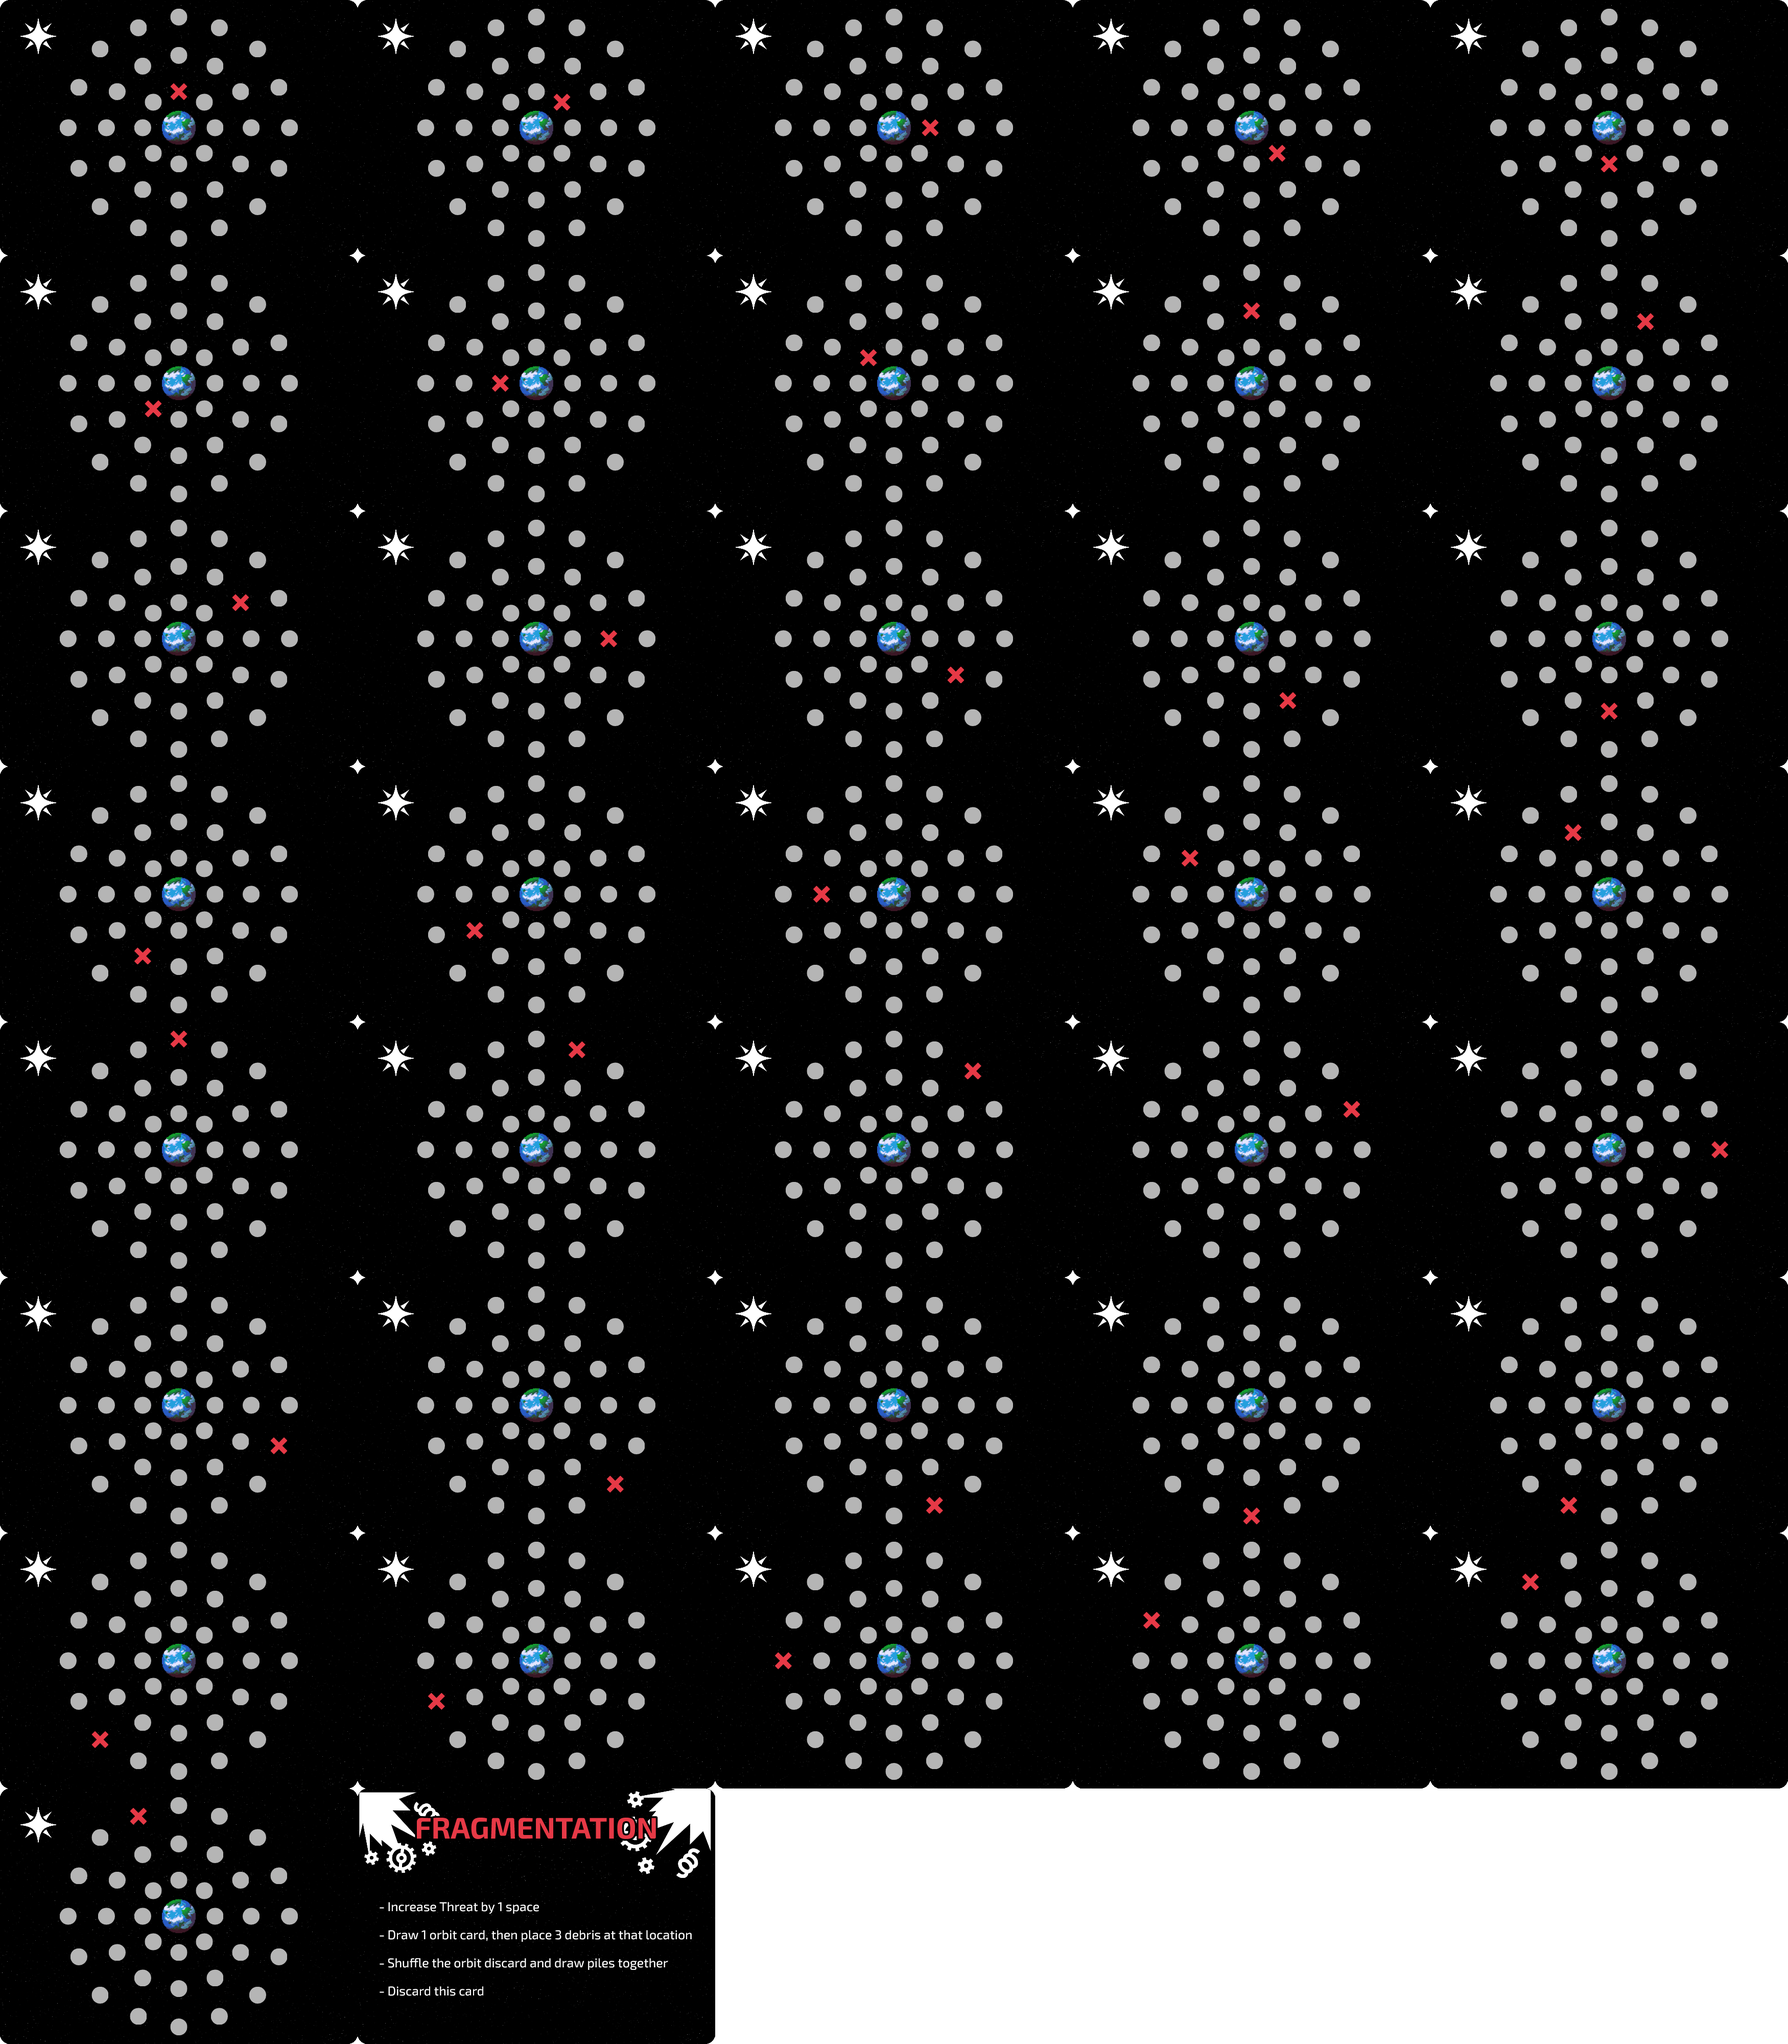
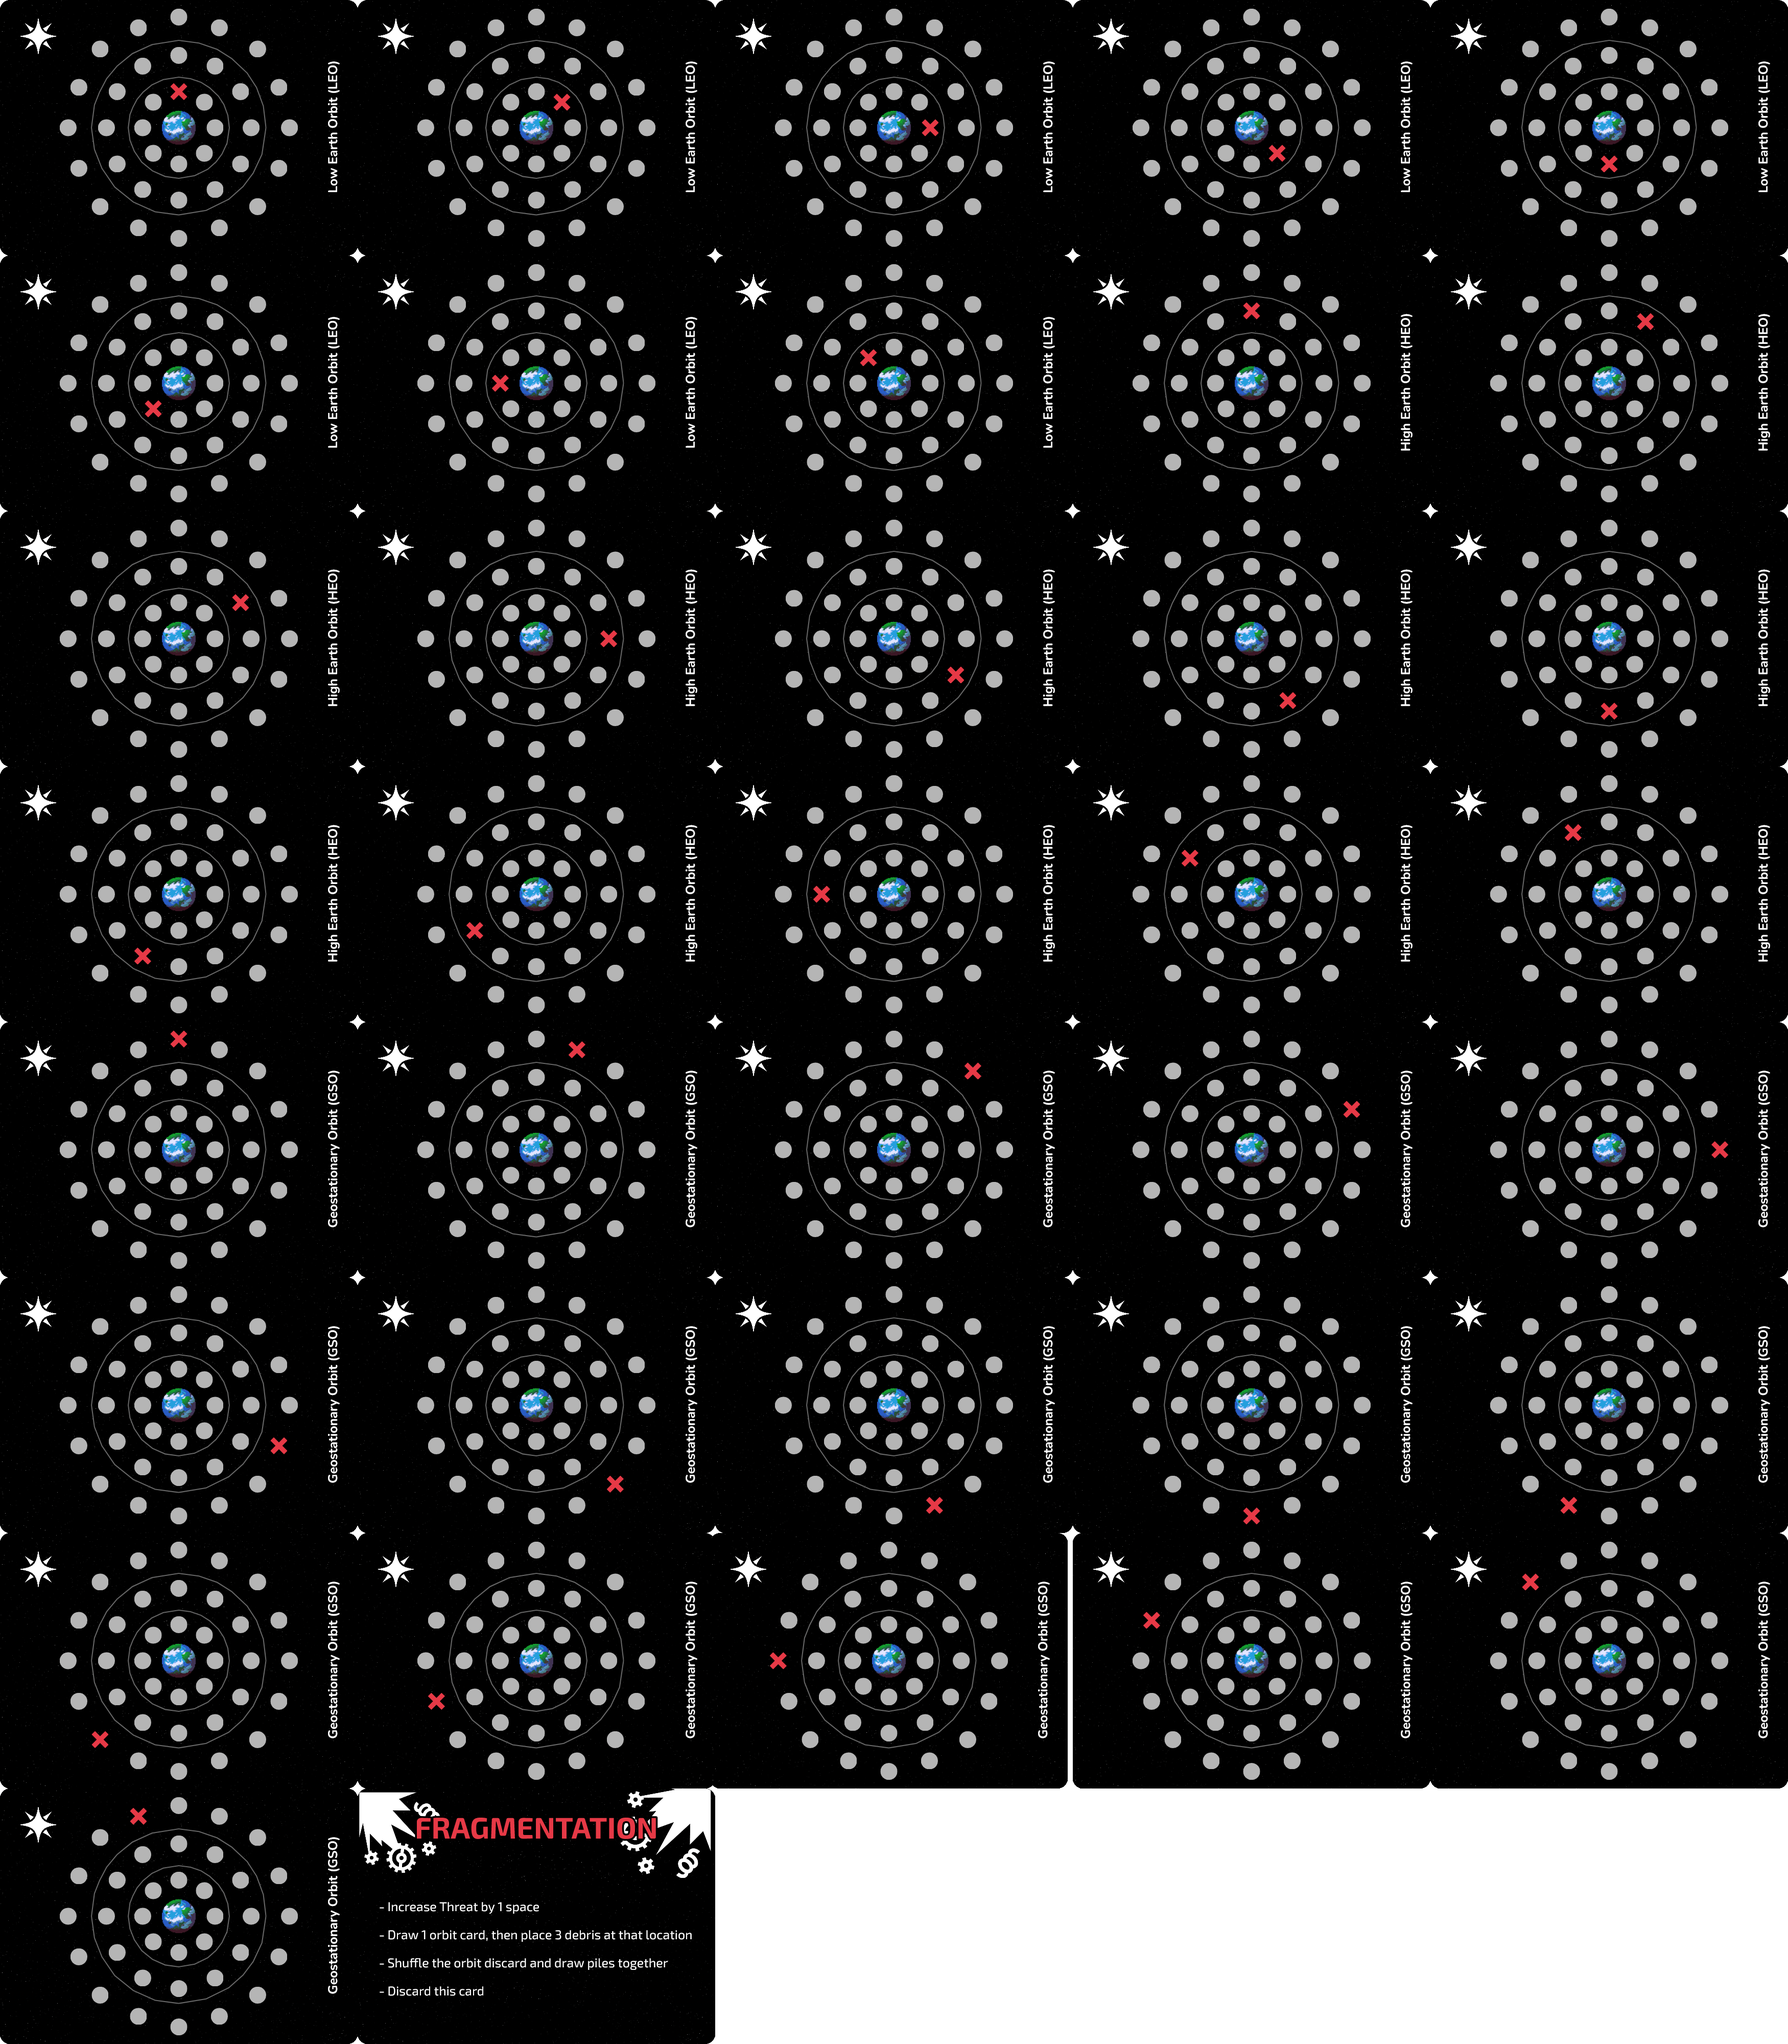
adding example images to the rulebook

Changed region(s): [[0.436, 0.75, 0.5606, 0.875], [0.4049, 0.75, 0.436, 0.7812]]

diff --git a/Space Debris.md b/Space Debris.md
@@ -3,13 +3,12 @@
 
 Team, our mission is critical and the stakes are high. As you know, space debris has already caused significant damage to vital satellites; threatening communication, navigation, and systems essential for life on Earth. We have repair teams in orbit as we speak to fix these malfunctioning satellites, but they don't have enough supplies to get the job done.
 
-That's where you come in. These debris fields are full of the necessary resources we need to fix our satellites. Capture the debris, recycle it into usable resources, and deliver them to our satellite repair teams. 
+That's where you come in. These debris fields are full of the necessary resources we need to fix our satellites. Capture the debris, recycle it into usable resources, and deliver them to our satellites. 
 
 Debris fields are treacherous, and additional damage will jeopardize future missions. Proceed with caution, our success is essential to the future of space exploration.
 
 # Components
-![](../attachments/components.png)
-
+![[TX_Rulebook_Components.png]]
 - 3 Game boards
 	- 1 Low Earth Orbit (LEO)
 	- 1 High Earth Orbit (HEO)
@@ -41,13 +40,12 @@ Debris fields are treacherous, and additional damage will jeopardize future miss
 - 50 Debris cubes
 
 # Set Up
-![](../attachments/set_up_complete_example.jpg)
+![[TX_Rulebook_Setup0.png]]
 *Complete game set up for an example 4 player game*
 
 ## Create the Game Board
-
-![](../assets/screenshots/TX_Setup0.png)
-*Initial set up with game boards stacked on top of each other*
+![[TX_Rulebook_Setup1.png]]
+*Initial set up with game boards stacked on top of each other. Threat marker placed for a 4 player game.*
 
 1. Place the Geostationary Orbit (GSO) game board in the center of the table
 2. Stack the High Earth Orbit (HEO) game board on top of the GSO game board
@@ -57,9 +55,7 @@ Debris fields are treacherous, and additional damage will jeopardize future miss
 6. Place the Threat Token on the Threat Track starting space based on the number of players in the game
 
 ## Assign Player Spaceships
-
-![](../attachments/set_up1.jpg)
-
+![[TX_Rulebook_Setup2.png]]
 1. Give each player a player aid card
 2. Give each player 1 pawn, 1 Spaceship card, 1 HP Tracker, 1 Debris capacity Tracker  
 3. Each player, place the spaceship card face up on the table in front of them
@@ -70,17 +66,15 @@ Debris fields are treacherous, and additional damage will jeopardize future miss
 8. Each player, draw 2 cards from the Resource deck and add them to your hand 
 
 ## Choose Satellites
-![](../attachments/set_up3.jpg)
-
+![[TX_Rulebook_Setup3.png]]
 1. Players choose (or randomly choose) 4 Satellite cards
-2. Place all Satellite cards, on their malfunctioning side, next to the Satellite Tracker 
+3. Place all Satellite cards, on their malfunctioning side, next to the Satellite Tracker 
 	1. Each satellite will be assigned a letter: "A", "B", "C", "D"
-3. Choose (or randomly choose) 1 Satellite card. Flip it to its operational side
-4. Place the Satellite HP Tracker token on each Satellite card under the 4 HP mark
+4. Choose (or randomly choose) 1 Satellite card. Flip it to its operational side
+5. Place the Satellite HP Tracker token on each Satellite card under the 4 HP mark
 
 ## Add Orbitals
-
-![](../assets/screenshots/TX_Setup2.png)
+![[TX_Rulebook_Setup4.png]]
 *Example 4 player game set up*
 
 1. Remove fragmentation cards from the orbit deck
@@ -113,14 +107,18 @@ The player who last looked at the night sky goes first, and play continues to th
 ## 1. Take up to 4 actions
 On your turn you may take up to 4 actions, in any order. You may take the same action multiple times. You may collaborate with your teammates to decide which actions you want to take.   
 
-### Move
-![](../attachments/action_move_example.jpg)
+### Thrust
+![[TX_Rulebook_Action_MoveExample.png]]
+*Example: Caitlin chooses the thrust action and moves her pawn twice. Her first move places her to 'Satellite B's space. Her second move places her in a space with two debris. Even though the space has more than 1 debris, she only takes 1 point of damage.*
+
 - Move your pawn up to 2 spaces following dotted lines. 
 	- You may share a space with other pawns, satellites, or debris.
 	- If the space you move into contains any debris, your spaceship takes 1 point of damage.
 
 ### Capture Debris
-![](../attachments/action_capture_example.jpg)
+![[TX_Rulebook_Action_CaptureExample.png]]
+*Example: Caitlin decides to capture twice. Her first capture action moves both debris from her space onto her Spaceship card. Her second capture action moves 1 debris from an adjacent space onto her Spaceship card. She now has 3 debris on her spaceship, and has room for 2 more debris.*
+
 - Move any number of debris from your space onto your spaceship card.
 
 OR
@@ -130,8 +128,10 @@ OR
 Spaceships carry debris up to their capacity. A spaceship's capacity starts at 5, and may be upgraded via other actions.
 
 ### Recycle
-![](../attachments/action_recycle_example.jpg)
-- Move any number of debris from your spaceship card back to the supply. Draw that number of resource cards.
+![[TX_Rulebook_Action_RecycleExample.png]]
+*Example: Caitlin chooses to recycle all 3 debris on her spaceship card. She moves the debris to the supply, and draws 3 resource cards. She has less than 5 cards in hand, and does not need to discard excess resource cards.*
+
+- Move any number of debris from your spaceship card back to the supply, then draw that number of resource cards.
 	- If you recycle 5 or more debris in one action, decrease Threat by 1 space
 
 See the "Hand Limit" section for restrictions. 
@@ -149,7 +149,9 @@ At any malfunctioning Satellite space, you may...
 - If all Satellite cards are on the operational side, you win!
 
 ### Repair
-![](../attachments/action_repair_example.jpg)
+![[TX_Rulebook_Action_RepairExample.png]]
+*Example: Austin (orange) is on Satellite C's space with Caitlin (blue), and chooses the repair action. He can choose to heal 1 point of damage on himself, Caitlin, or Satellite C. Austin is at 1 HP and chooses himself, increasing his health from 1 to 2.*
+
 At any Satellite space, you may...
 - Increase your spaceship's health by 1 HP.
 
@@ -159,7 +161,7 @@ OR
 
 OR
 
-- Increase a teammate's spaceship's health by 1 HP, if they are also in your space.
+- Increase a teammate spaceship's health by 1 HP, if they are also in your space.
 
 ### Exchange Resource
 ![](../attachments/action_exchange_example.jpg)
@@ -265,7 +267,7 @@ Players have a hand limit of 5 Resource cards. If you ever have 6 or more cards 
 Immediately shuffle the Resource discard pile and stack the cards face down to form a new Resource deck. If this happens in the middle of a turn, continue to draw Resource cards as necessary from the new pile.
 
 ## Satellites
-Satellites can be in two states; malfunctioning and operational. Malfunctioning satellites do not provide any team bonuses. They need all required resources to become operational. Once all required resources have been delivered, flip the satellite card to its operational side.
+Satellites can be in two states; malfunctioning and operational. Malfunctioning satellites do not provide any team bonuses. They need all required resources to become operational. Once all required resources have been delivered, flip the satellite card to its operational side and full heal the satellite.
 
 Operational satellites offer powerful teamwide bonuses, one time benefits, or unlock additional actions. Prioritize which satellite should be fixed first to maximize your team's chance for success.
 
@@ -311,7 +313,7 @@ Players are defeated if any of the following conditions are met:
 - Any player spaceship reaches 0 HP
 - Any satellite reaches 0 HP
 - The debris supply is empty AND players must place more debris in orbit
-- Any player must place debris on an adjacent space AND all adjacent spaces contain 3 debris
+- A collision occurs AND all adjacent spaces contain 3 debris
 
 # Optional Advanced Rules
 Players looking for a more challenging experience may choose to play with any (or all) of the following rules/restrictions. This is not recommended for your first few games.
@@ -327,14 +329,14 @@ For each Resource card discarded from a player's hand because of hand limit rest
 - If there is a tie for fewest game pieces, the discarding player chooses.
 - If all adjacent spaces contain 3 debris, your team is defeated.
 
-**Example**: Caitlin has 3 cards in hand, and chooses to recycle 4 debris on her Spaceship. She draws 4 Resource cards and now has 7 total cards in hand. Caitlin must now choose any 2 cards in hand to discard. After discarding 2 cards, she takes 2 debris from the supply and places them amongst adjacent spaces with the fewest game pieces.
+**Example**: Caitlin has 3 cards in hand, and chooses to recycle 4 debris on her Spaceship. She draws 4 Resource cards and now has 7 total cards in hand. Caitlin must now choose any 2 cards in hand to discard. After discarding 2 cards, she takes 2 debris from the supply and places them in an adjacent space with the fewest game pieces.
 
 # Glossary
 **Adjacent** - Spaces are considered adjacent if they are connected by a dotted line.
 
 **Empty** - A space with 0 game pieces.
 
-**Game Piece** - Debris, Satellites, Spaceships.
+**Game Piece** - Debris, Pawns, Satellites.
 
 **Passive** - An ongoing effect that costs 0 resources to use.
 
@@ -342,7 +344,8 @@ For each Resource card discarded from a player's hand because of hand limit rest
 
 # FAQs
 
-Space Reserved
+Q: How much damage do I take if my thrust action moves me into 2 spaces that both contain debris?
+A: Each time your pawn moves into a space with debris, you take 1 damage. In this situation, you take 2 damage total.
 
 # Credits
 
